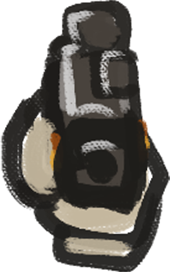
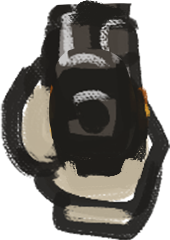
Update assets

diff --git a/Assets/VegetableBody.cs b/Assets/VegetableBody.cs
@@ -6,7 +6,7 @@ using DG.Tweening;
 [RequireComponent(typeof(Damageable))]
 public class VegetableBody : MonoBehaviour
 {
-    [SerializeField] public BodyDataSO bodyData;
+    [SerializeField] BodyDataSO bodyData;
     [SerializeField] SpriteRenderer BodySprite;
     [SerializeField] SpriteRenderer EyeLeft;
     [SerializeField] SpriteRenderer EyeRight;
@@ -27,6 +27,15 @@ public class VegetableBody : MonoBehaviour
     private float _mouthTimer;
     private Coroutine _mouthCR;
 
+    public BodyDataSO BodyData {
+        get => bodyData; 
+        set { 
+            bodyData = value;
+            EyeLeft.transform.localPosition += bodyData.EyeOffset;
+            EyeRight.transform.localPosition += new Vector3(-bodyData.EyeOffset.x, bodyData.EyeOffset.y, bodyData.EyeOffset.z);
+        } 
+    }
+
     void Start()
     {
         _dmg = GetComponent<Damageable>();
@@ -36,7 +45,10 @@ public class VegetableBody : MonoBehaviour
         mouthAnim.enabled = false;
         _prs = Mouth.gameObject.GetComponent<PickRandomSprite>();
         UpdateBody();
+        EyeLeft.transform.localPosition += bodyData.EyeOffset;
+        EyeRight.transform.localPosition += new Vector3(-bodyData.EyeOffset.x, bodyData.EyeOffset.y, bodyData.EyeOffset.z);
     }
+
 
     private void _dmg_OnDie()
     {

diff --git a/Assets/PanHero.cs b/Assets/PanHero.cs
@@ -152,7 +152,7 @@ public class PanHero : MonoBehaviour
     
     public void ChangeBody(BodyDataSO data)
     {
-        GetComponent<VegetableBody>().bodyData = data;
+        GetComponent<VegetableBody>().BodyData = data;
     }
 
     public void ChangeWeapon(GameObject weaponGO)

diff --git a/Assets/PickRandomSprite.cs b/Assets/PickRandomSprite.cs
@@ -5,7 +5,7 @@ using UnityEngine;
 [RequireComponent(typeof(SpriteRenderer))]
 public class PickRandomSprite : MonoBehaviour
 {
-    [SerializeField] Sprite[] sprites;
+    [SerializeField] public Sprite[] sprites;
     void Start()
     {
         Pick();

diff --git a/Assets/Scripts/Utils/BodyDataSO.cs b/Assets/Scripts/Utils/BodyDataSO.cs
@@ -17,4 +17,5 @@ public class BodyDataSO : ScriptableObject
     public Sprite Rot3;
     public Sprite Dead;
     public Color PieceTint;
+    public Vector3 EyeOffset;
 }
